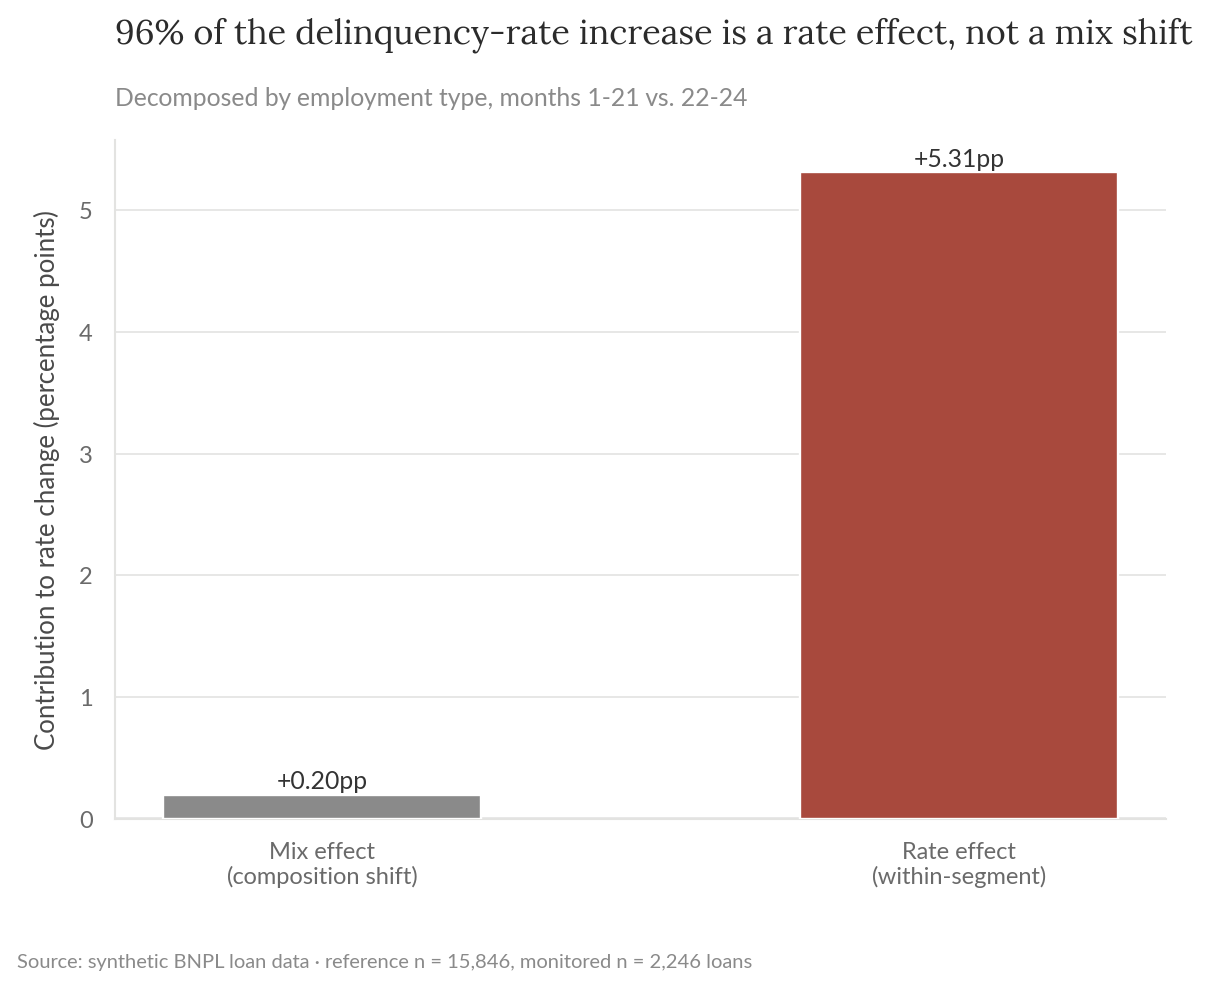
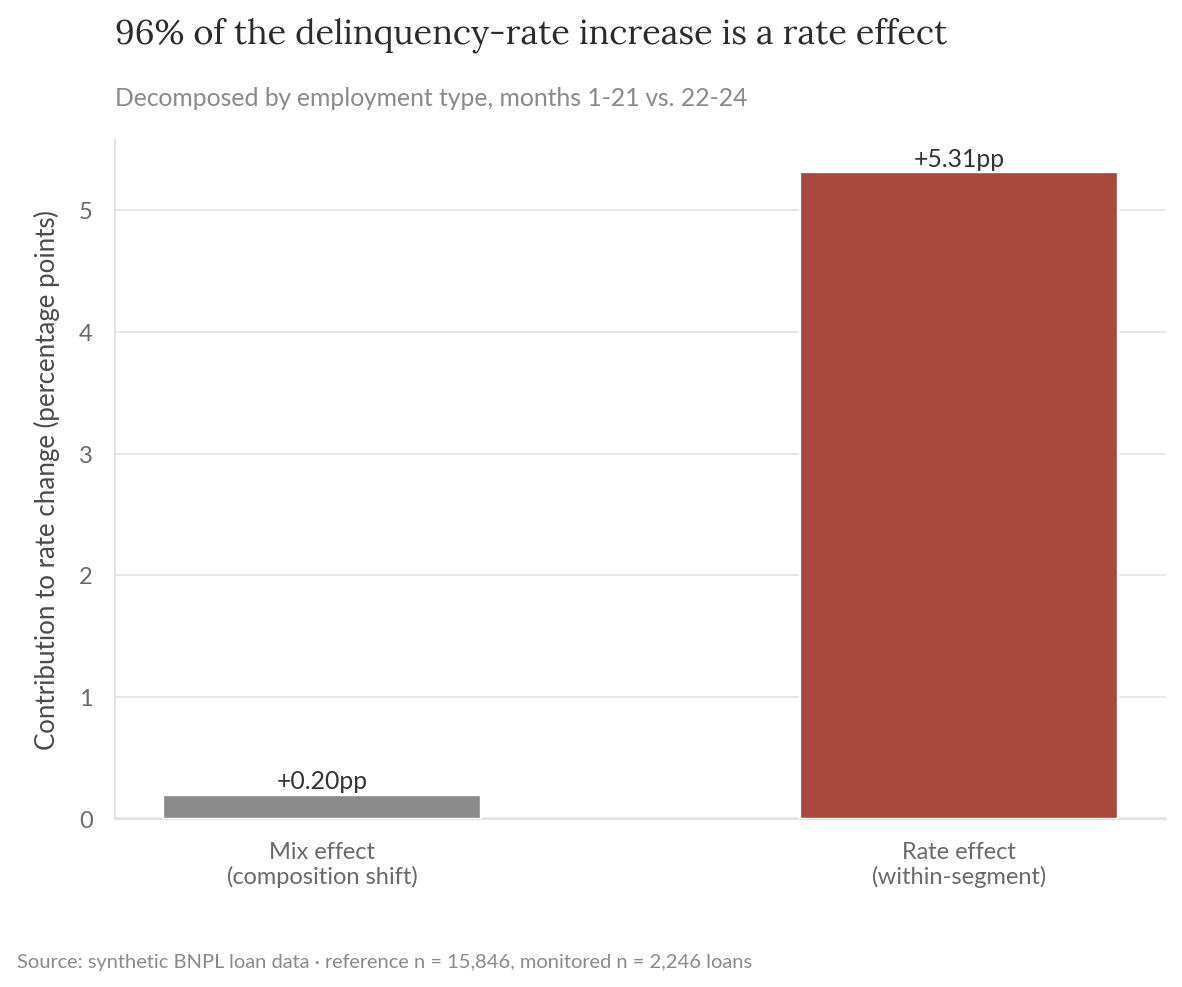
Simplify three chart titles and two limitations bullets
Three chart titles (rate-mix decomposition, GMV contribution, quality
control chart) repeated the same point twice in the title text itself.
Trimmed to the single factual claim. Regenerated the affected PNGs and
re-executed the corresponding notebook cells so the embedded chart
images match.

Also tightened two limitations bullets in project 3's README and
notebook that restated the obvious after the factual sentence.

diff --git a/projects/01-delinquency-risk-model/src/rate_mix_shift.py b/projects/01-delinquency-risk-model/src/rate_mix_shift.py
@@ -98,7 +98,7 @@ def rate_mix_shift(df, segment_col, source_note, plot=True):
     ax.axhline(0, color=GREY, linewidth=1)
     for i, v in enumerate(vals):
         ax.text(i, v + (0.05 if v >= 0 else -0.15), f"{v:+.2f}pp", ha="center", fontsize=10.5, color="#333")
-    style_ax(ax, title=f"{rate_share:.0%} of the delinquency-rate increase is a rate effect, not a mix shift",
+    style_ax(ax, title=f"{rate_share:.0%} of the delinquency-rate increase is a rate effect",
              subtitle=f"Decomposed by {segment_col.replace('_', ' ')}, months 1-{REFERENCE_END_MONTH} vs. {REFERENCE_END_MONTH+1}-24",
              ylabel="Contribution to rate change (percentage points)")
     savefig(fig, FIG_DIR / "rate_mix_shift_decomposition.png", footnote=source_note)

diff --git a/projects/02-ltv-contribution-analysis/src/contribution.py b/projects/02-ltv-contribution-analysis/src/contribution.py
@@ -108,7 +108,7 @@ def main():
     ax.plot(mc.month_index, mc.delta_gmv, color="#222222", linewidth=1.6, marker="o", markersize=3.5,
             label="Net GMV change")
     ax.axhline(0, color=GREY, linewidth=1)
-    style_ax(ax, title="GMV growth comes almost entirely from new customers, not engagement",
+    style_ax(ax, title="GMV growth comes almost entirely from new customers",
              subtitle="Month-over-month GMV change decomposed by driver",
              xlabel="Month", ylabel="Contribution to MoM GMV change (USD)")
     ax.legend(loc="upper left", fontsize=9, ncol=2)

diff --git a/projects/04-llm-eval-monitoring/src/drift_monitoring.py b/projects/04-llm-eval-monitoring/src/drift_monitoring.py
@@ -78,7 +78,7 @@ def drift_monitoring(df, source_note):
                     xy=(result["detected_day"], result["center"] * 100),
                     xytext=(result["detected_day"] + 3, result["center"] * 100 - 18),
                     fontsize=9.5, color=MUTED_RED)
-    style_ax(ax, title="A p-chart catches the quality regression within days, not weeks",
+    style_ax(ax, title="A p-chart catches the quality regression within days",
              subtitle=f"Daily judge-scored acceptable rate vs. control limits from days 0-{REFERENCE_END_DAY}",
              xlabel="Day", ylabel="Acceptable rate (%)")
     ax.legend(fontsize=9, loc="lower left")

diff --git a/projects/03-growth-experimentation-segmentation/README.md b/projects/03-growth-experimentation-segmentation/README.md
@@ -132,7 +132,7 @@ TF-IDF + NMF on 1,500 synthetic support tickets recovers five topics from text a
 
 *Figure 10. Ticket volume by recovered topic.*
 
-One topic, general account questions, doesn't cluster cleanly on its own; it scatters across the other four because it shares vocabulary with them rather than having a distinct signature. That's a real limitation of unsupervised topic modeling on short text, not something worth glossing over.
+One topic, general account questions, doesn't cluster cleanly on its own; it scatters across the other four because it shares vocabulary with them rather than having a distinct signature. That's a real limitation of unsupervised topic modeling on short text.
 
 ## Recommendation
 